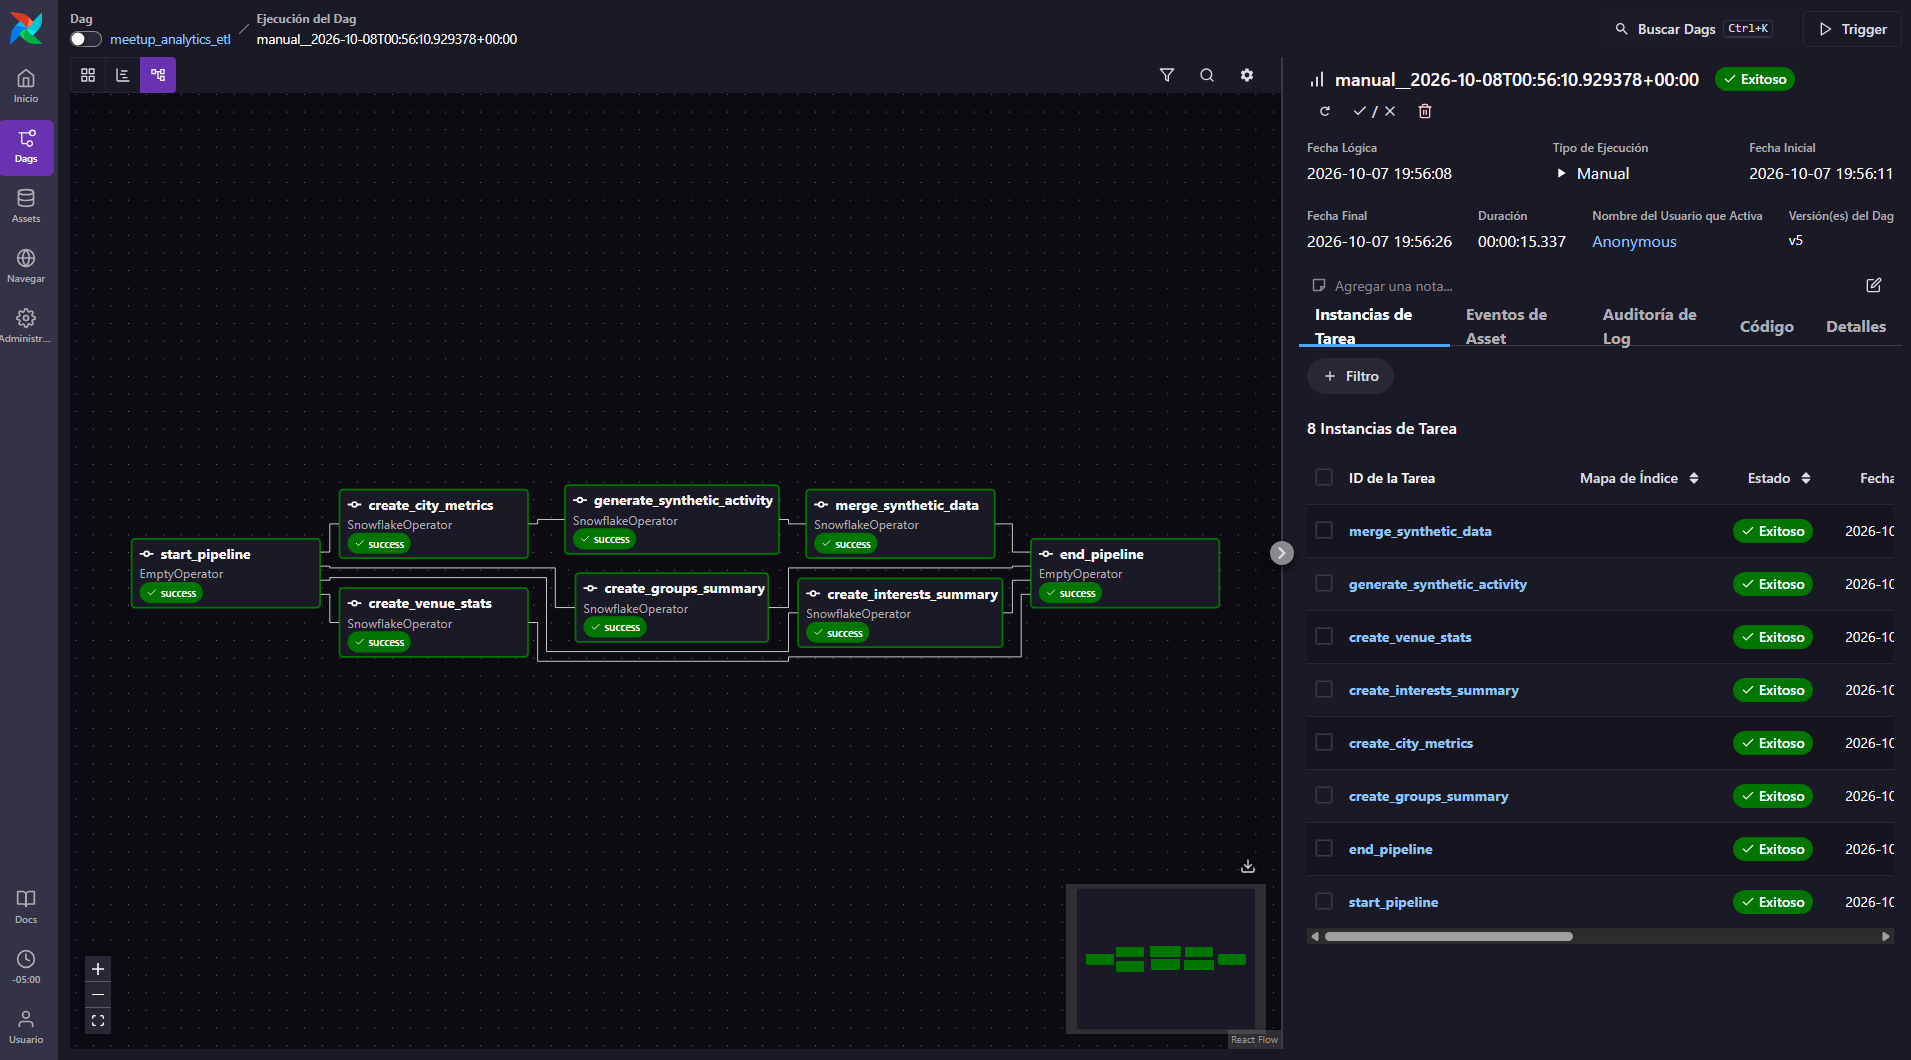
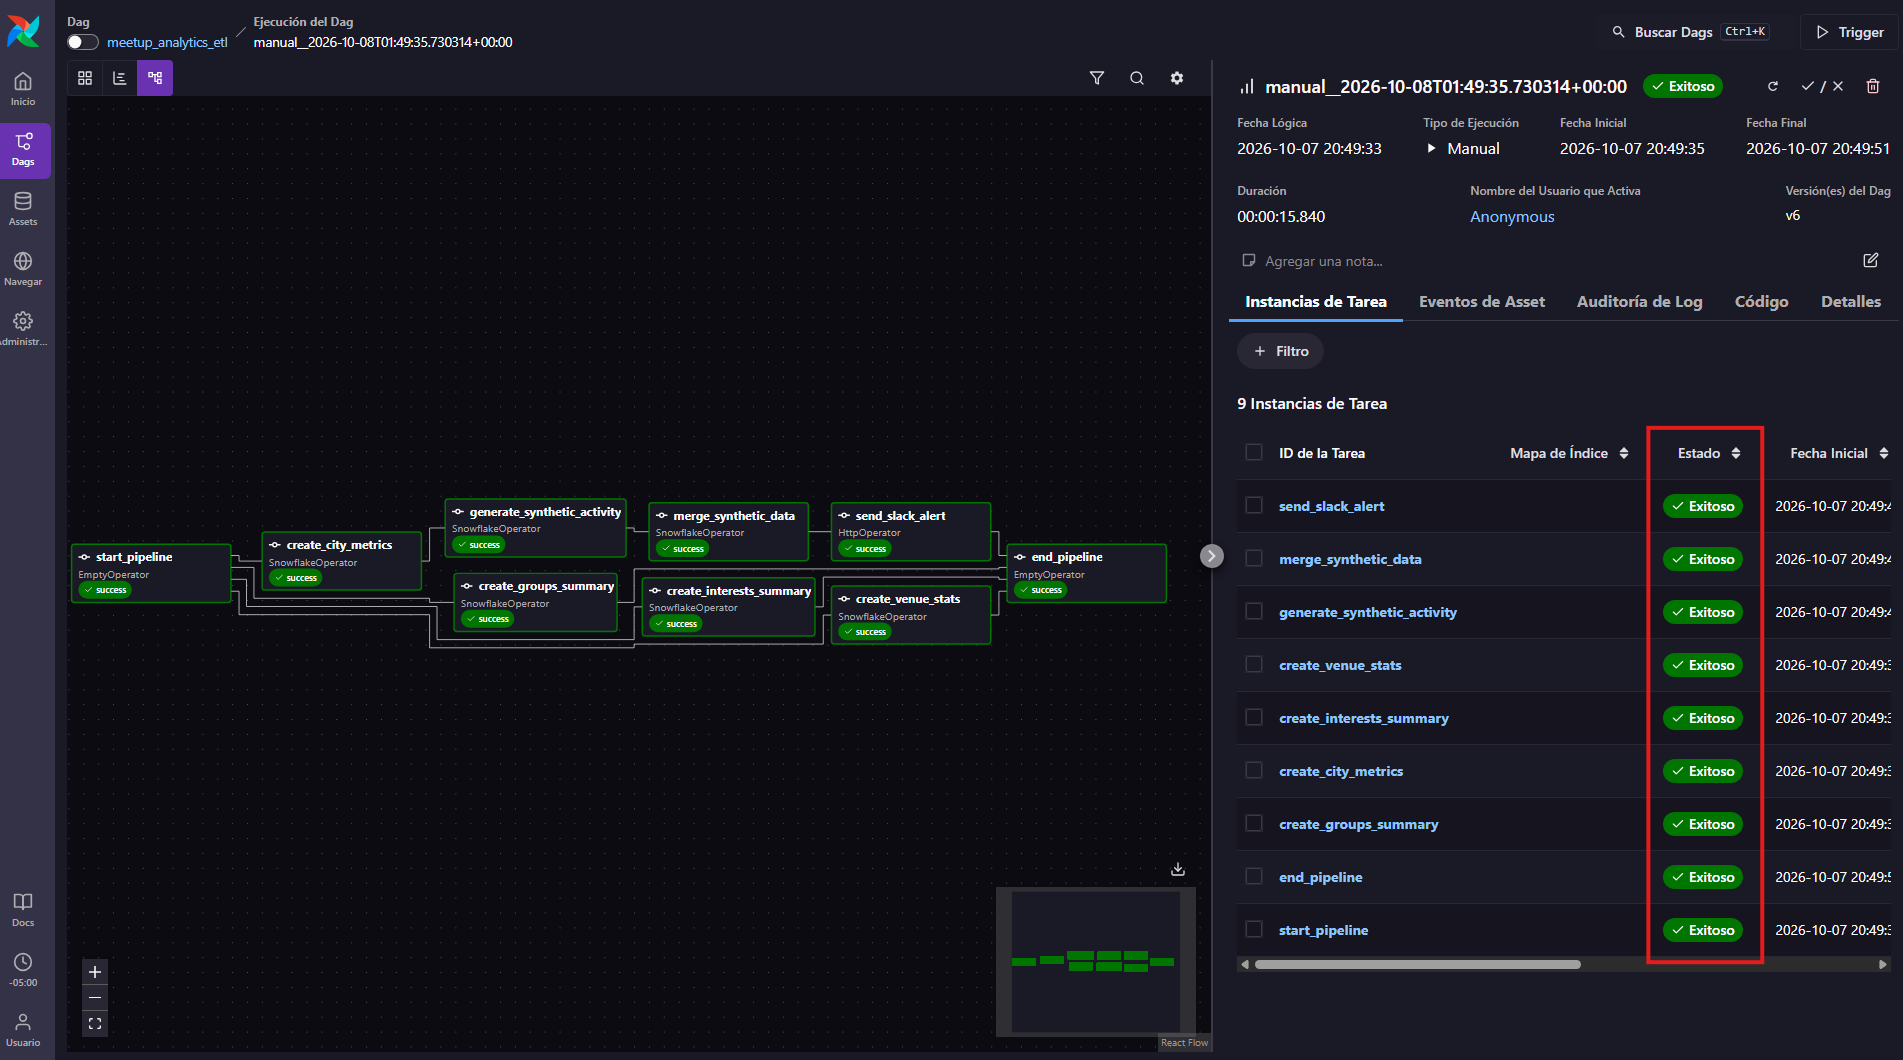
feat: integrate Slack Webhook for automated pipeline success alerts

diff --git a/dags/meetup_etl.py b/dags/meetup_etl.py
@@ -1,7 +1,12 @@
+import json
+
 from airflow import DAG
 from airflow.providers.snowflake.operators.snowflake import SnowflakeOperator
+from airflow.providers.http.operators.http import HttpOperator
 from airflow.operators.empty import EmptyOperator
 from datetime import datetime, timedelta
+
+
 
 # Configuración base del DAG
 default_args = {
@@ -100,52 +105,64 @@ with DAG(
     start_pipeline = EmptyOperator(task_id='start_pipeline')
     end_pipeline = EmptyOperator(task_id='end_pipeline')
 
-    # Tarea 1
+    # Tarea Snowflake 1
     task_groups = SnowflakeOperator(
         task_id='create_groups_summary',
         snowflake_conn_id='snowflake_default', # La conexión que creamos en la interfaz
         sql=query_groups,
     )
 
-    # Tarea 2
+    # Tarea Snowflake 2
     task_cities = SnowflakeOperator(
         task_id='create_city_metrics',
         snowflake_conn_id='snowflake_default',
         sql=query_cities
     )
 
-    # Tarea 3
+    # Tarea Snowflake 3
     task_interests = SnowflakeOperator(
         task_id='create_interests_summary',
         snowflake_conn_id='snowflake_default',
         sql=query_interests
     )
 
-    # Tarea 4
+    # Tarea Snowflake 4
     task_venues = SnowflakeOperator(
         task_id='create_venue_stats',
         snowflake_conn_id='snowflake_default',
         sql=query_venues
     )
     
-    # Tarea 5
+    # Tarea Snowflake 5
     task_generate_synthetic = SnowflakeOperator(
         task_id='generate_synthetic_activity',
         snowflake_conn_id='snowflake_default',
         sql=query_generate_synthetic
     )
     
-    # Tarea 6
+    # Tarea Snowflake 6
     task_merge_data = SnowflakeOperator(
         task_id='merge_synthetic_data',
         snowflake_conn_id='snowflake_default',
         sql=query_merge_data
     )
 
+    # Tarea Slack
+    task_slack_alert = HttpOperator(
+        task_id='send_slack_alert',
+        http_conn_id='slack_conn',
+        endpoint='T0C7P0SP19P/B0C7K51RP2A/95QpPToj03BAytQbyyFKdvcT', 
+        method='POST',
+        data=json.dumps({
+            "text": "🚀 *Pipeline ETL Exitoso*\n✅ Capa RAW leída correctamente.\n✅ Datos Maestros y Sintéticos (MERGE) actualizados en Snowflake."
+        }),
+        headers={"Content-Type": "application/json"},
+    )
+
     # Flujo de ejecución
     start_pipeline >> [task_groups, task_cities, task_interests, task_venues]
     
-    task_cities >> task_generate_synthetic >> task_merge_data >> end_pipeline
+    task_cities >> task_generate_synthetic >> task_merge_data >> task_slack_alert >> end_pipeline
     task_groups >> end_pipeline
     task_interests >> end_pipeline
     task_venues >> end_pipeline
